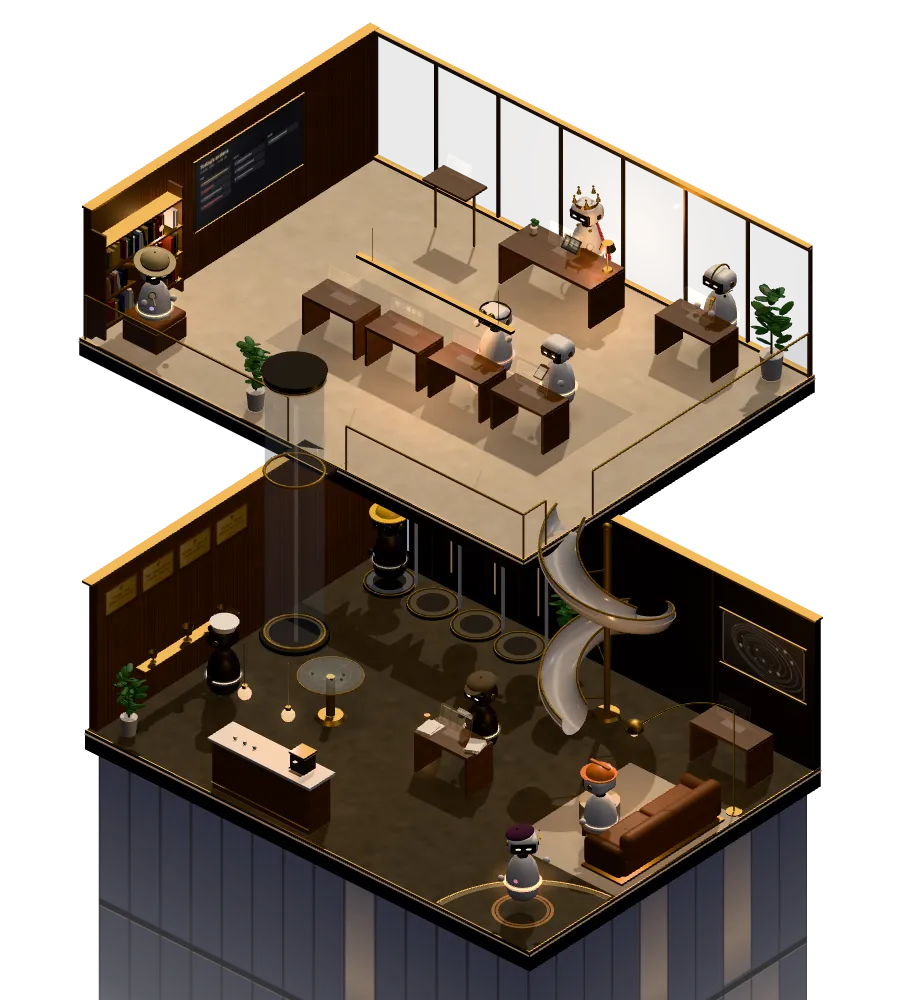
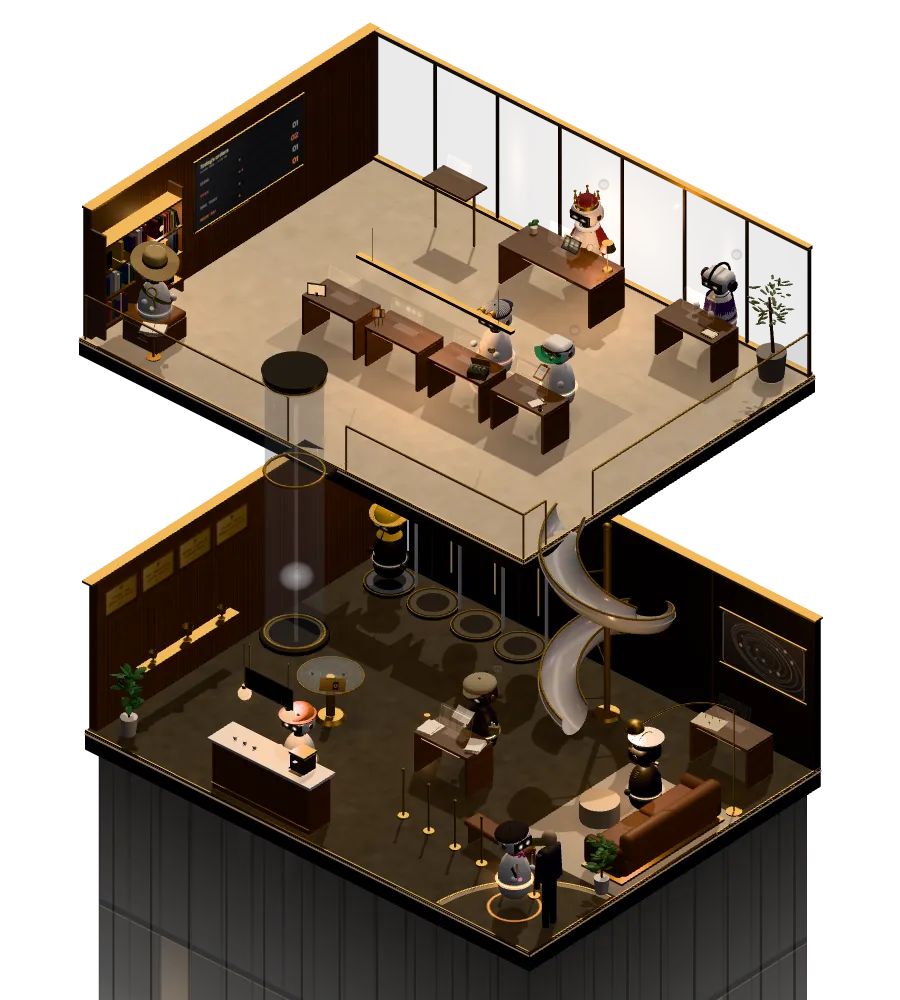
Hub v27 S6: views 2-9 (blueprint, security cam, through the window, tilt, tour, director with 400 ms cuts, robot eyes + first-person rides), The Call face-cam into #pip, Storm Watch's morning (fogged note, days-since-hail flip counter, rim notches, real-direction storm cell), hail cue moment, split-
Tested: 1512x982 all views + storm/flap fixtures (hand-stepped), 420 phone, ES, reduced motion; gate PASS (HEAD page + these files), release_checks --fast PASS.

Claude-Session: https://claude.ai/code/session_01CqR6V6VHe8sf2mjYY5dJCv

diff --git a/pages/hub/scene.js b/pages/hub/scene.js
@@ -33,7 +33,7 @@ renderer.setClearColor(0x000000, 0);
 // Nocturne (ART 6.2): neutral tone mapping at 1.0 (night 1.05); window.__hubTM = 'agx' is the A/B switch for review shots
 renderer.toneMapping = window.__hubTM === 'agx' ? THREE.AgXToneMapping : THREE.NeutralToneMapping; renderer.toneMappingExposure = 1.0;
 renderer.shadowMap.enabled = true; renderer.shadowMap.type = PHONE ? THREE.PCFShadowMap : THREE.PCFSoftShadowMap;
-renderer.shadowMap.autoUpdate = !PHONE;          // phones: robots use blob shadows, the static map is redrawn only when the sun moves
+renderer.shadowMap.autoUpdate = false;           // the shadow pass is redrawn at most 15 times a second (desktop) or when the sun moves (phones: blob shadows)
 let DPR = Math.min(window.devicePixelRatio || 1, PHONE ? 1.75 : 2);
 renderer.setPixelRatio(DPR);
 
@@ -151,6 +151,7 @@ const FONT_H = '"Bricolage Grotesque", Geist, system-ui, sans-serif', FONT = 'Ge
 const TONE = {orange:'#f1c48a', white:'rgba(241,242,244,.6)', green:'#9fbfa6', red:'#e0685c', need:'#f5883a'};
 function fitText(g, s, max, font, size, min = 14){ let z = size; g.font = font.replace('#', z); while (z > min && g.measureText(s).width > max){ z -= 2; g.font = font.replace('#', z); } return s; }
 /* the glass board (ART 6.6): the real counts, DOING / STUCK / DONE TODAY as ivory rows at 60%; only NEEDS YOU is ember */
+const boardFlip = {t:1, a:0};
 const BL = {en:['DOING','STUCK','DONE TODAY','NEEDS YOU'], es:['EN CURSO','ATASCADAS','HECHAS HOY','TE ESPERAN']};
 function boardCounts(){
   const b = HUB.boardInfo || {}, cols = Array.isArray(b.cols) ? b.cols : [], n = {doing:0, stuck:0, done:0};
@@ -170,7 +171,8 @@ const boardT = tex(1024, 520, (g,w,h) => {
   rows.forEach(([label, v, c], i) => { const y = 132 + i*92;
     g.fillStyle = 'rgba(241,242,244,.12)'; g.fillRect(44, y, w - 88, 1.5);
     g.fillStyle = c; g.font = '500 26px ' + MONO; g.textAlign = 'left'; g.fillText(label, 44, y + 58);
-    g.font = '600 60px ' + FONT_H; g.textAlign = 'right'; g.fillText(String(v).padStart(2, '0'), w - 44, y + 66); g.textAlign = 'left';
+    if (boardFlip.t < 1){ flapText(g, String(v).padStart(2, '0'), w - 44 - 108, y + 18, 54, 64, '600 50px ' + FONT_H, boardFlip.t, i*.13); g.fillStyle = c; }
+    else { g.font = '600 60px ' + FONT_H; g.textAlign = 'right'; g.fillText(String(v).padStart(2, '0'), w - 44, y + 66); } g.textAlign = 'left';
     for (let k = 0; k < Math.min(10, v); k++){ g.globalAlpha = .7; g.beginPath(); g.arc(420 + k*26, y + 49, 7, 0, Math.PI*2); g.fill(); } g.globalAlpha = 1; });
 });
 /* the trophy wall: HUB.trophies.list, newest first, up to 12 plaques */
@@ -1115,18 +1117,41 @@ function fitRect(points, maxScale){
 /* the view registry (BUILD S1): every cam id the page may ask for; unbuilt ids render as their fallback */
 const VIEWS = {
   all:{built:true}, up:{built:true}, down:{built:true}, follow:{built:true, sel:true}, ride:{built:true, sel:true, as:'follow'},
-  blueprint:{built:false}, cctv:{built:false}, window:{built:false}, tilt:{built:false}, tour:{built:false}, director:{built:false},
-  eyes:{built:false, sel:true, fallback:'follow'}
+  blueprint:{built:true, el:1.5, az:0}, cctv:{built:true, persp:true}, window:{built:true, persp:true}, tilt:{built:true, el:.42}, tour:{built:true}, director:{built:true},
+  eyes:{built:true, sel:true, persp:true}
 };
+/* perspective views (cctv, window, eyes) render through pcam; everything else is the orthographic cutaway */
+const pcam = new THREE.PerspectiveCamera(60, 1, .05, 200);
+let rcam = cam;
+const TOUR = [['all', 5], ['up', 5], ['box', 5, [[-4.4,0,-2.2],[-2.2,2.4,1.6]], 'up'], ['box', 5, [[-2.2,0,-.2],[3,1.8,1.6]], 'up'], ['down', 5], ['box', 5, [[.8,0,1.4],[4.6,1.8,3.4]], 'down'], ['box', 5, [[-3.2,0,-.8],[-.6,1.8,2.2]], 'down']];
+const tour = {i:0, t:0}, director = {mode:'all', id:null, t:0, hold:0, seen:{}};
+const cctv = {i:0, t:0};
+function boxPts(b, f){ const F = FL[f], out = []; for (const x of [b[0][0], b[1][0]]) for (const y of [b[0][1], b[1][1]]) for (const z of [b[0][2], b[1][2]]) out.push(new THREE.Vector3(x + F.ox, y + F.oy, z + F.oz)); return out; }
+/* Director (8): cuts on real moments with a 400 ms settle: a finish -> that robot, a new question -> your spot, a ride -> its eyes */
+function directorPick(dt){
+  const d = director; d.t += dt; d.hold -= dt;
+  for (const a of HUB.agents || []){ const sim = sims[a.id]; if (!sim || sim.hidden) continue; const prev = d.seen[a.id]; d.seen[a.id] = a.st + '|' + !!sim.ride;
+    if (prev === undefined || prev === d.seen[a.id]) continue;
+    if (sim.ride && d.hold < 2){ d.mode = 'eyes'; d.id = a.id; d.hold = sim.ride.kind === 'slide' ? 2.6 : 1.4; }
+    else if (a.st === 'done'){ d.mode = 'follow'; d.id = a.id; d.hold = 5; }
+    else if (a.st === 'waiting'){ d.mode = 'spot'; d.id = a.id; d.hold = 6; } }
+  if (d.hold <= 0){ d.mode = 'all'; d.id = null; }
+  if ((d.mode === 'follow' || d.mode === 'eyes') && (!sims[d.id] || sims[d.id].hidden)) d.mode = 'all';
+  return d;
+}
 const builtViews = () => Object.keys(VIEWS).filter(k => VIEWS[k].built && k !== 'ride');
 function camMode(){
   let m = HUB.cam, v = VIEWS[m];
+  if (m === 'eyes' && RM.matches) m = 'follow', v = VIEWS.follow;          // reduced motion: no first-person ride
   if (!v) m = 'all'; else if (!v.built) m = v.fallback || 'all'; else if (v.as) m = v.as;
   if (VIEWS[m].sel){ const id = HUB.selected, sim = id && sims[id]; if (!sim || sim.hidden) return 'all'; }
   return m;
 }
-function wantRect(mode){
-  if (mode === 'follow'){ const sim = sims[HUB.selected]; const c = new THREE.Vector3(sim.x, sim.y + .7, sim.z);
+function wantRect(mode, id, extra){
+  if (mode === 'spot') return fitRect(boxPts([[.6,0,1.2],[4.6,1.9,3.4]], 'down'), 140);
+  if (mode === 'box') return fitRect(boxPts(extra[0], extra[1]), 160);
+  if (mode === 'tilt'){ const f = (sims[HUB.selected] && sims[HUB.selected].floor) || 'up'; return fitRect(boxPts([[-3.2,0,-2.4],[3.2,1.4,2.4]], f), 150); }
+  if (mode === 'follow'){ const sim = sims[id || HUB.selected]; const c = new THREE.Vector3(sim.x, sim.y + .7, sim.z);
     const pts = [c.clone().add(new THREE.Vector3(-2.6, -.7, -2.6)), c.clone().add(new THREE.Vector3(2.6, -.7, 2.6)), c.clone().add(new THREE.Vector3(-2.6, 1.3, 2.6)), c.clone().add(new THREE.Vector3(2.6, 1.3, -2.6))];
     return fitRect(pts, 120); }
   return fitRect(BOXES[mode] || BOXES.all);
@@ -1138,12 +1163,25 @@ const HZ = {down:new THREE.Vector3(2.5, 1.25, -FZ), up:new THREE.Vector3(FL.up.o
 const tw = {key:null, from:null, t:1};
 const RK = ['l','r','t','b'];
 function updateCamera(dt, snap){
-  const mode = camMode(), want = wantRect(mode), A = area();
-  const key = mode + '|' + (mode === 'follow' ? HUB.selected : '') + '|' + Math.round(A.x0) + ',' + Math.round(A.y0) + ',' + Math.round(A.x1) + ',' + Math.round(A.y1);
+  const top = camMode(), A = area();
+  let mode = top, id = HUB.selected, extra = null;
+  if (top === 'director' && !RM.matches){ const d = directorPick(dt); mode = d.mode; id = d.id; }
+  else if (top === 'director') mode = 'all';
+  if (top === 'tour'){ const T = TOUR[tour.i % TOUR.length]; if (!RM.matches){ tour.t += dt; if (tour.t > T[1]){ tour.t = 0; tour.i++; } } const T2 = TOUR[tour.i % TOUR.length]; mode = T2[0]; extra = T2.slice(2); }
+  view.sub = mode; view.subId = id;
+  const V_ = VIEWS[mode] || {};
+  if (V_.persp){ rcam = pcam; view.mode = mode; perspCam(mode, id, dt); gUp.position.y = FL.up.oy; LIFT = 0; view.lift = 0; gUp.visible = true; tw.key = null; horizonFrom(pcam, dt); return; }
+  rcam = cam;
+  // orientation: the view's own elevation / azimuth (blueprint looks straight down, tilt sits low), glided with the rect
+  const elT = V_.el ?? .6, azT = V_.az != null ? V_.az : view.azLive;
+  const key = mode + '|' + (mode === 'follow' ? id : '') + '|' + (top === 'tour' ? tour.i : '') + '|' + Math.round(A.x0) + ',' + Math.round(A.y0) + ',' + Math.round(A.x1) + ',' + Math.round(A.y1);
   const cut = !view.rect || snap || RM.matches || CAPTURE;
-  if (key !== tw.key){ if (!cut){ tw.from = Object.assign({}, view.rect); tw.t = 0; } else tw.t = 1; tw.key = key; }
+  if (key !== tw.key){ if (!cut){ tw.from = Object.assign({}, view.rect, {el:view.el, az:view.azNow}); tw.t = 0; tw.dur = top === 'director' ? .4 : .75; } else tw.t = 1; tw.key = key; }
+  if (cut || tw.t >= 1){ view.el = elT; view.azNow = azT; } else { const e = ease(Math.min(1, tw.t + dt/tw.dur)); view.el = tw.from.el + (elT - tw.from.el)*e; let da = azT - tw.from.az; da = Math.atan2(Math.sin(da), Math.cos(da)); view.azNow = tw.from.az + da*e; }
+  aim(view.azNow);
+  const want = wantRect(mode, id, extra);
   if (cut){ view.rect = Object.assign({}, want); tw.t = 1; }
-  else if (tw.t < 1){ tw.t = Math.min(1, tw.t + dt/.75); const e = ease(tw.t); for (const k of RK) view.rect[k] = tw.from[k] + (want[k] - tw.from[k])*e; }
+  else if (tw.t < 1){ tw.t = Math.min(1, tw.t + dt/(tw.dur || .75)); const e = ease(tw.t); for (const k of RK) view.rect[k] = tw.from[k] + (want[k] - tw.from[k])*e; }
   else if (mode === 'follow'){ const k = 1 - Math.exp(-dt*5); for (const q of RK) view.rect[q] += (want[q] - view.rect[q])*k; }
   else view.rect = Object.assign({}, want);
   view.mode = mode; applyRect(view.rect);
@@ -1151,11 +1189,33 @@ function updateCamera(dt, snap){
   const lw = mode === 'down' ? 1 : 0; view.lift = view.lift == null || snap || RM.matches || CAPTURE ? lw : view.lift + (lw - view.lift)*Math.min(1, dt*4.5);
   if (Math.abs(view.lift - lw) < .002) view.lift = lw;
   LIFT = view.lift*view.lift*(3 - 2*view.lift)*8; gUp.position.y = FL.up.oy + LIFT; gUp.visible = view.lift < .85;
-  if (skyEl){ const f = mode === 'follow' ? sims[HUB.selected].floor : mode; const hz = VC.copy(HZ[f] || HZ.all).project(cam); const pct = (1 - hz.y)/2*100;
-    view.horizon = view.horizon == null || RM.matches ? pct : view.horizon + (pct - view.horizon)*Math.min(1, dt*3.2);
-    const s = Math.max(8, Math.min(92, view.horizon)).toFixed(1) + '%'; if (s !== view.hs){ view.hs = s; skyEl.style.setProperty('--horizon', s); } }
+  if (skyEl){ const f = mode === 'follow' ? (sims[id] ? sims[id].floor : 'all') : mode === 'box' ? extra[1] : mode; const hz = VC.copy(HZ[f] || HZ.all).project(cam); setHorizon((1 - hz.y)/2*100, dt); }
 }
-function resize(){ W = stage.clientWidth || 1; H = stage.clientHeight || 1; renderer.setSize(W, H, false); aim(AZ0 + view.drag); updateCamera(0, true); }
+function setHorizon(pct, dt){ if (!skyEl) return; view.horizon = view.horizon == null || RM.matches ? pct : view.horizon + (pct - view.horizon)*Math.min(1, dt*3.2);
+  const s = Math.max(8, Math.min(92, view.horizon)).toFixed(1) + '%'; if (s !== view.hs){ view.hs = s; skyEl.style.setProperty('--horizon', s); } }
+function horizonFrom(c, dt){ const d = new THREE.Vector3(); c.getWorldDirection(d); d.y = 0; d.normalize().multiplyScalar(150).add(c.position); d.y = 0; d.project(c); setHorizon((1 - d.y)/2*100, dt); }
+/* the perspective views */
+const HEADV = new THREE.Vector3(), FWD = new THREE.Vector3();
+function perspCam(mode, id, dt){
+  pcam.aspect = W/H;
+  if (mode === 'cctv'){               // Security cam: Cam 1 up / Cam 2 down, a new camera every 8 s; the page adds the timestamp + grain
+    if (!RM.matches){ cctv.t += dt; if (cctv.t > 8){ cctv.t = 0; cctv.i++; } }
+    const up = cctv.i % 2 === 0, F = FL[up ? 'up' : 'down'];
+    pcam.fov = 72; pcam.position.set(F.ox + FX - .25, F.oy + (up ? 2.25 : 2.55), F.oz - FZ + .3); pcam.lookAt(F.ox - .6, F.oy + .2, F.oz + 1.2);
+  } else if (mode === 'window'){      // Through the window: outside the upper glass, looking in at the Code lab
+    const F = FL.up, sway = RM.matches ? 0 : Math.sin(performance.now()/1000*.12)*.6;
+    pcam.fov = 42; pcam.position.set(F.ox + .4 + sway, F.oy + 1.45, F.oz - FZ - 3.4); pcam.lookAt(F.ox + .2, F.oy + .85, F.oz + .9);
+  } else {                            // Robot eyes (key 9): from the visor, fov 70; the slide / tube ride in first person at fov 110
+    const sim = sims[id], R = robots[id]; if (!sim || !R) return;
+    const riding = !!sim.ride; pcam.fov = riding ? 110 : 70;
+    HEADV.set(0, R.hov.position.y*1 + .82*1.24, 0); R.root.localToWorld(HEADV);
+    const yaw = sim.yawDraw + R.head.rotation.y, pit = R.head.rotation.x*.8 + (riding ? .15 : .12);
+    FWD.set(Math.sin(yaw)*Math.cos(pit), -Math.sin(pit), Math.cos(yaw)*Math.cos(pit));
+    pcam.position.copy(HEADV).addScaledVector(FWD, .24); pcam.lookAt(VC.copy(pcam.position).add(FWD));
+  }
+  pcam.updateProjectionMatrix(); pcam.updateMatrixWorld();
+}
+function resize(){ W = stage.clientWidth || 1; H = stage.clientHeight || 1; renderer.setSize(W, H, false); view.azLive = AZ0 + view.drag; if (view.azNow == null) view.azNow = view.azLive; aim(view.azNow); updateCamera(0, true); }
 // drag to turn the building a little (a tap still selects: the page ignores taps right after a drag)
 let dragStart = null; const SC = {dragged:false};
 const NODRAG = '.bub,button,a,input,textarea,select,[data-nodrag]';
@@ -1297,6 +1357,7 @@ function animRobot(a, sim, R, t, dt){
   if (S === 'idle' && HUB.watching && !habit) hy *= .35;
   if (qStage === 1 && !rm && ((t + ph) % 9) < 1.4) hy = .9;                           // a glance up the stairs
   if (qStage === 2){ hp = .26; } else if (qStage === 3){ hp = .35; }
+  if (sim.lookWin > 0){ sim.lookWin -= dt; const aw = Math.atan2(Math.sin(Math.PI - sim.yawDraw), Math.cos(Math.PI - sim.yawDraw)); hy = Math.max(-1.3, Math.min(1.3, aw)); hp = -.12; look.set(Math.sign(aw)*.6, .2, 0); }
   const hkx = Math.min(1, dt*4); R.head.rotation.x = lerp(R.head.rotation.x, hp, hkx); R.head.rotation.y = lerp(R.head.rotation.y, hy, Math.min(1, dt*(sim.moving ? 5 : 3))); R.head.rotation.z = lerp(R.head.rotation.z, hr, hkx);
   // eyes (hub/eyes.js)
   const blink = sim.blinkT > 0 && !rm && pose !== 'sleep' ? .08 : 1;
@@ -1374,9 +1435,10 @@ function animRobot(a, sim, R, t, dt){
   R.ring2.scale.setScalar(pose === 'wait' ? 1.05 : 1.15);
   R.ring.visible = R.ring.material.opacity > .01; R.ring2.visible = R.ring2.material.opacity > .01;
   // overlay anchor: top of the head + the floor under the robot
-  V.set(sim.x, sim.y + up + hh + 1.2 + R.hat, sim.z).project(cam); const ax = (V.x+1)/2*W, ay = (1-V.y)/2*H;
-  V.set(sim.x, sim.y + up, sim.z).project(cam); const fx = (V.x+1)/2*W, fy = (1-V.y)/2*H;
-  const on = !(up > .3) && ax > -20 && ax < W + 20 && ay > -40 && fy < H + 20;
+  V.set(sim.x, sim.y + up + hh + 1.2 + R.hat, sim.z).project(rcam); const ax = (V.x+1)/2*W, ay = (1-V.y)/2*H, behind = V.z > 1;
+  V.set(sim.x, sim.y + up, sim.z).project(rcam); const fx = (V.x+1)/2*W, fy = (1-V.y)/2*H;
+  const persFloor = rcam === pcam ? (view.sub === 'cctv' ? (cctv.i % 2 === 0 ? 'up' : 'down') : view.sub === 'window' ? 'up' : null) : null;
+  const on = !(up > .3) && !behind && !(persFloor && sim.floor !== persFloor) && !(rcam === pcam && view.sub === 'eyes' && view.subId === a.id) && ax > -20 && ax < W + 20 && ay > -40 && fy < H + 20;
   const an = anchors[a.id] || (anchors[a.id] = {});
   an.x = ax; an.y = ay; an.fx = fx; an.fy = fy; an.pose = sim.bow != null ? 'bow' : sim.poke != null ? 'poke' : pose === 'wait' && sim.slot > 0 ? 'queue' : R.zone > 1 ? 'zone' : pose; an.moving = !!sim.moving; an.visible = on; an.floor = sim.floor;
   // floor reflection, desk status bar, after-hours lamp
@@ -1408,7 +1470,9 @@ function lightFromSky(dt){
   sun.intensity = L('ki')*(1 - storm*.75) + flash*2.2;
   const el = Math.max(8, L('el'))*Math.PI/180, az = -2.6;                    // from the back-left, through the back glass
   sun.position.set(-1.5 + Math.sin(az)*Math.cos(el)*24, 1 + Math.sin(el)*24, -2 + Math.cos(az)*Math.cos(el)*24); sun.target.position.set(-1.5, 1, -2);
-  if (!renderer.shadowMap.autoUpdate){ shadowSun.t += dt; if (shadowSun.el == null || Math.abs(shadowSun.el - el) > .01 || shadowSun.t > 6){ shadowSun.el = el; shadowSun.t = 0; renderer.shadowMap.needsUpdate = true; } }
+  shadowSun.t += dt; shadowSun.q = (shadowSun.q || 0) + dt;
+  if (shadowSun.el == null || Math.abs(shadowSun.el - el) > .01 || shadowSun.t > 6){ shadowSun.el = el; shadowSun.t = 0; renderer.shadowMap.needsUpdate = true; }
+  else if (!PHONE && shadowSun.q > 1/15){ shadowSun.q = 0; renderer.shadowMap.needsUpdate = true; }
   hemi.color.copy(A.hsc).lerp(B.hsc, k); hemi.groundColor.copy(A.hgc).lerp(B.hgc, k);
   const fl = HUB.flap; if (fl && isFinite(fl.blockDays)){ const d = +fl.blockDays; if (d >= 1) hemi.color.lerp(MOOD_W, Math.min(.08, d*.012)); else hemi.color.lerp(MOOD_C, .05); }
   hemi.intensity = L('hi')*(1 - storm*.3) + flash*1.2;
@@ -1489,8 +1553,8 @@ function stepAwareness(agents, dt){
       if (lap){ const sm = sims[lap.id], free = POOL.lounge.find(p => p.f === 'down' && !claims.has(p)); if (free){ release(sm); claims.set(free, sm.id); sm.queue = [{spot:null, pose:'cheer', dur:1.2}]; go(sm, free); } } } }
   fx_.finish = fin;
   // your spot + the tube base, in stage px (for the page's overlays and the mind)
-  V1.set(FIG.x, 1.2, FIG.z).project(cam); points.spot.x = (V1.x + 1)/2*W; points.spot.y = (1 - V1.y)/2*H; points.spot.visible = V1.z < 1 && points.spot.x > -20 && points.spot.x < W + 20;
-  V1.set(TUBE.x, .1, TUBE.z).project(cam); points.tube.x = (V1.x + 1)/2*W; points.tube.y = (1 - V1.y)/2*H; points.tube.visible = points.tube.x > -20 && points.tube.x < W + 20;
+  V1.set(FIG.x, 1.2, FIG.z).project(rcam); points.spot.x = (V1.x + 1)/2*W; points.spot.y = (1 - V1.y)/2*H; points.spot.visible = V1.z < 1 && points.spot.x > -20 && points.spot.x < W + 20;
+  V1.set(TUBE.x, .1, TUBE.z).project(rcam); points.tube.x = (V1.x + 1)/2*W; points.tube.y = (1 - V1.y)/2*H; points.tube.visible = points.tube.x > -20 && points.tube.x < W + 20;
 }
 function runCues(){
   const q = HUB.cues; if (!Array.isArray(q)) return false; let any = false;
@@ -1528,8 +1592,7 @@ function frame(t, dt){
   const now = performance.now();
   const drift = RM.matches || CAPTURE ? 0 : Math.sin(t*.05)*.04;
   if (!dragStart && view.lastDrag && now - view.lastDrag > 5000) view.drag *= Math.pow(.2, dt);
-  const az = AZ0 + drift + view.drag;
-  if (view.azNow == null || Math.abs(az - view.azNow) > 1e-5){ view.azNow = az; aim(az); }
+  view.azLive = AZ0 + drift + view.drag;
   updateCamera(dt, false);
   if (readTheme()) redraw(boardT);
   // The Call (ART 8.4): the pool rises over the first in line (HUB.needs.ids[0], else the first waiting robot) in 1.2 s
@@ -1543,11 +1606,14 @@ function frame(t, dt){
   const pk = ease(call.k)*(cs && !(cs.floor === 'up' && !gUp.visible) ? 1 : 0);
   pool.intensity = 18*2.5*pk;          // ART's 18, scaled for r169's physical units
   poolDecal.visible = pk > .01; if (cs){ poolDecal.position.set(cs.x, cs.y + (cs.floor === 'up' && !cs.ride ? LIFT : 0) + .012, cs.z); poolDecal.material.opacity = .22*pk; }
+  const bolt = stepStorm(dt);
   const lamps = lightFromSky(dt);
+  if (bolt){ sun.intensity += 3*bolt; hemi.intensity += 1.2*bolt; }
   // board + trophies redraw when their data or the language changes
   const lang = HUB.lang; const bv = HUB.boardInfo && HUB.boardInfo.v, tv = HUB.trophies && HUB.trophies.v;
-  const bsig = bv + '|' + JSON.stringify(boardCounts());
-  if (bsig !== seen.board || lang !== seen.lang){ seen.board = bsig; redraw(boardT); }
+  const bsig = bv + '|' + JSON.stringify(boardCounts()), run = HUB.boardInfo ? tx(HUB.boardInfo.when) : '';
+  if (bsig !== seen.board || lang !== seen.lang){ if (seen.board != null && run !== seen.run && !RM.matches) boardFlip.t = 0; seen.run = run; seen.board = bsig; redraw(boardT); }
+  if (boardFlip.t < 1){ boardFlip.t = Math.min(1, boardFlip.t + dt/1.4); if ((boardFlip.a += dt) > .07 || boardFlip.t >= 1){ boardFlip.a = 0; redraw(boardT); } }
   if (tv !== seen.trophies || lang !== seen.lang){ seen.trophies = tv; redraw(trophyT);
     const top = HUB.trophies && HUB.trophies.list && HUB.trophies.list[0] && HUB.trophies.list[0].id;
     if (seen.trophyTop !== undefined && top && top !== seen.trophyTop && !RM.matches) sweep.userData.t = 0; seen.trophyTop = top || null; }
@@ -1605,12 +1671,99 @@ function frame(t, dt){
       arr[k*3] += (v[0] + Math.sin(b.t*5 + v[3])*.12)*dt; arr[k*3+1] += v[1]*dt; arr[k*3+2] += (v[2] + Math.cos(b.t*4 + v[3])*.12)*dt; }
     b.p.geometry.attributes.position.needsUpdate = true; b.p.material.opacity = Math.max(0, Math.min(1, (b.life - b.t)/(b.life*.35)));
     if (b.t > b.life){ scene.remove(b.p); b.p.geometry.dispose(); b.p.material.dispose(); bursts.splice(i,1); } }
-  renderer.render(scene, cam);
+  const selfR = rcam === pcam && view.sub === 'eyes' && robots[view.subId]; if (selfR) selfR.root.visible = false;   // your own head stays out of your eyes
+  renderer.render(scene, rcam);
+  if (selfR) selfR.root.visible = true;
+  renderPip();
   // keep phones smooth: drop resolution if frames run long
   if (!cap && !CAPTURE){ perf.acc += Math.min(.1, rawDt || 0); perf.n++; if (perf.acc > 2){ const avg = perf.acc/perf.n;
     if (avg > .026 && DPR > 1){ DPR = Math.max(1, DPR - .25); pw.dprSet = DPR; renderer.setPixelRatio(DPR); resize();
       if (!lowfx){ lowfx = true; try { HUB.onLowFx && HUB.onLowFx(true); } catch(e){} halos.forEach((h, i) => { if (i % 2) h.visible = false; }); lampRefl.forEach(r => r.visible = false); } }
     perf.acc = 0; perf.n = 0; } }
+}
+/* ================= Storm Watch's morning (FUN 7), the hail moment, the flap boards (FUN 8) ================= */
+const GLYPH = 'ABCDEFGHIJKLMNOPQRSTUVWXYZ0123456789';
+function flapText(g, text, x, y, cw, ch, font, flip, seed){        // split-flap cells: ivory glyphs on dark leaves; unsettled cells show a random glyph
+  g.font = font; g.textAlign = 'center'; g.textBaseline = 'middle';
+  for (let i=0;i<text.length;i++){ const c = text[i], cx = x + i*cw;
+    if (c !== ' '){ g.fillStyle = '#16161a'; g.fillRect(cx + 1, y, cw - 2, ch); g.fillStyle = 'rgba(0,0,0,.6)'; g.fillRect(cx + 1, y + ch/2 - .5, cw - 2, 1); }
+    const settled = flip >= 1 || flip > .15 + (i*.37 + seed) % .6; const ch_ = settled ? c : GLYPH[Math.floor(Math.random()*GLYPH.length)];
+    g.fillStyle = '#f1f2f4'; if (c !== ' ') g.fillText(ch_, cx + cw/2, y + ch/2 + 1); }
+  g.textBaseline = 'alphabetic'; }
+const storm = {note:null, noteK:1, noteKey:'', counter:null, cnt:'', flipT:1, cloud:null, notches:[], hail:null};
+{
+  P = gDown;
+  storm.counterT = tex(256, 150, (g, w, h) => { g.clearRect(0,0,w,h); const gr = g.createLinearGradient(0,0,0,h); gr.addColorStop(0,'#d9bd82'); gr.addColorStop(1,'#8a6a3a');
+    g.fillStyle = gr; g.beginPath(); g.roundRect(0,0,w,h,12); g.fill(); g.fillStyle = '#2a1c0c'; g.font = '600 17px ' + MONO; g.textAlign = 'center';
+    g.fillText(HUB.lang === 'es' ? 'DÍAS SIN GRANIZO' : 'DAYS SINCE HAIL', w/2, 26);
+    flapText(g, storm.cnt.padStart(2, ' '), 68, 40, 60, 92, '600 64px ' + FONT_H, storm.flipT, .1); });
+  storm.counter = dyn(new THREE.Mesh(new THREE.PlaneGeometry(.3, .176), std({map:storm.counterT, transparent:true, roughness:.4, metalness:.3})));
+  storm.counter.position.set(-1.62, .98, .98); storm.counter.scale.setScalar(1.35); storm.counter.rotation.set(-.15, Math.PI/4, 0); storm.counter.renderOrder = 8; storm.counter.visible = false; P.add(storm.counter);
+  for (let i=0;i<12;i++){ const an = -Math.PI/2 + i*.2; const m = new THREE.Mesh(new THREE.BoxGeometry(.03, .02, .03), MAT.bronze); m.position.set(-2.0 + Math.cos(an)*.52, .79, .6 + Math.sin(an)*.52); m.rotation.y = -an; m.visible = false; P.add(dyn(m)); storm.notches.push(m); }
+  storm.noteT = tex(256, 256, (g, w, h) => { g.clearRect(0,0,w,h); const k = storm.noteK, n = storm.noteData || {};
+    const fog = g.createRadialGradient(128,128,10,128,128,120); fog.addColorStop(0,'rgba(235,240,245,.55)'); fog.addColorStop(.7,'rgba(235,240,245,.3)'); fog.addColorStop(1,'rgba(235,240,245,0)'); g.fillStyle = fog; g.fillRect(0,0,w,h);
+    g.globalCompositeOperation = 'destination-out'; g.strokeStyle = 'rgba(0,0,0,.95)'; g.fillStyle = 'rgba(0,0,0,.95)'; g.lineWidth = 9; g.lineCap = 'round';   // a finger wipes the fog
+    g.beginPath(); g.arc(128, 104, 38, -Math.PI/2, -Math.PI/2 + Math.PI*2*Math.min(1, k/.45)); g.stroke();
+    if (!n.hail && k > .45){ g.beginPath(); g.moveTo(92, 142); g.lineTo(92 + 72*Math.min(1, (k - .45)/.25), 142 - 76*Math.min(1, (k - .45)/.25)); g.stroke(); }
+    if (k > .7){ g.globalAlpha = Math.min(1, (k - .7)/.3); g.font = '600 40px ' + MONO; g.textAlign = 'center'; g.fillText(n.label || '', 128, 196); g.globalAlpha = 1; } g.globalCompositeOperation = 'source-over'; });
+  storm.note = new THREE.Mesh(new THREE.PlaneGeometry(.62, .62), new THREE.MeshBasicMaterial({map:storm.noteT, transparent:true, depthWrite:false, toneMapped:false}));
+  storm.note.position.set(TUBE.x + .34, 1.45, TUBE.z + .34); storm.note.rotation.y = Math.PI/4; storm.note.renderOrder = 7; storm.note.visible = false; scene.add(storm.note);
+  storm.cloudT = tex(256, 256, (g, w, h) => { g.clearRect(0,0,w,h); const blob = (x, y, r, a) => { const gr = g.createRadialGradient(x,y,0,x,y,r); gr.addColorStop(0,`rgba(58,62,74,${a})`); gr.addColorStop(1,'rgba(58,62,74,0)'); g.fillStyle = gr; g.fillRect(x-r,y-r,r*2,r*2); };
+    blob(128, 70, 80, .85); blob(70, 78, 50, .7); blob(186, 78, 50, .7); blob(128, 150, 60, .8); for (let i=0;i<12;i++) blob(96 + (i*23)%70, 190 + (i%3)*14, 18, .35); });
+  storm.cloud = new THREE.Sprite(new THREE.SpriteMaterial({map:storm.cloudT, transparent:true, opacity:0, depthWrite:false, depthTest:false, toneMapped:false})); storm.cloud.renderOrder = -3; storm.cloud.visible = false; scene.add(storm.cloud);
+  storm.flapT = tex(512, 200, (g, w, h) => { g.fillStyle = '#0e0e11'; g.fillRect(0,0,w,h); g.strokeStyle = '#c9a45c'; g.lineWidth = 3; g.strokeRect(3,3,w-6,h-6);
+    const f = HUB.flap || {}, es = storm.flapLang === 'es';
+    const rows = es ? [['DÍAS SIN BLOQUEOS', f.blockDays], ['ENTREGADO', f.shipped], ['TE ESPERAN', f.waiting]] : [['DAYS WITHOUT A BLOCK', f.blockDays], ['SHIPPED THIS WEEK', f.shipped], ['WAITING ON YOU', f.waiting]];
+    rows.forEach(([l, v], i) => { const y = 16 + i*60; g.fillStyle = 'rgba(241,242,244,.62)'; g.font = '500 22px ' + MONO; g.textAlign = 'left'; g.textBaseline = 'middle'; g.fillText(l, 22, y + 24);
+      flapText(g, String(v == null ? '--' : Math.min(99, v | 0)).padStart(2, '0'), w - 118, y, 46, 50, '600 36px ' + FONT_H, storm.flapFlip, i*.2);
+      if (i === 2 && v > 0){ g.fillStyle = TONE.need; g.fillRect(w - 128, y + 8, 4, 34); } }); });
+  storm.flapLang = 'en'; storm.flapFlip = 1; storm.flapAt = 0;
+  storm.flap = dyn(new THREE.Mesh(new THREE.PlaneGeometry(1.0, .39), std({map:storm.flapT, roughness:.5, metalness:.2})));
+  storm.flap.position.set(-1.1, 2.2, 3.05); storm.flap.visible = false; P.add(storm.flap);
+  storm.rods = [-.4, .4].map(dx => { const r = cyl(.006, .006, .45, MAT.brass, -1.1 + dx, 2.62, 3.05, 6); r.userData.dyn = true; r.visible = false; return r; });
+}
+const MS_DAY = 86400e3;
+function stepStorm(dt){
+  const sw = HUB.stormWatch, rm = RM.matches, swA = HUB.byId && HUB.byId['storm-watch'];
+  const cnt = sw && isFinite(sw.dryDays) ? String(Math.min(99, Math.max(0, sw.dryDays | 0))) : '';
+  storm.counter.visible = !!cnt;
+  if (cnt && cnt !== storm.cnt){ storm.flipT = rm || !storm.cnt ? 1 : 0; storm.cnt = cnt; redraw(storm.counterT); }
+  if (storm.flipT < 1){ storm.flipT = Math.min(1, storm.flipT + dt/1.1); if ((storm.f1 = (storm.f1 || 0) + dt) > .07 || storm.flipT >= 1){ storm.f1 = 0; redraw(storm.counterT); } }
+  if (storm.lang !== HUB.lang){ storm.lang = HUB.lang; if (cnt) redraw(storm.counterT); }
+  const nn = Math.min(12, swA && swA.gear ? swA.gear.count | 0 : 0); storm.notches.forEach((m, i) => m.visible = i < nn);
+  const m = fremontMin(), recent = !!(sw && sw.lastHailAt && Date.now() - Date.parse(sw.lastHailAt) < 18*3600e3);
+  const show = !!sw && m >= 414 && m < 1320;
+  const label = recent && sw.inches ? (+sw.inches).toFixed(2).replace(/0$/, '') + '"' : '6:54', key = show + '|' + label;
+  if (key !== storm.noteKey){ storm.noteKey = key; storm.noteData = {hail:recent, label}; storm.noteK = rm ? 1 : 0; redraw(storm.noteT); }
+  storm.note.visible = show;
+  if (storm.noteK < 1){ storm.noteK = Math.min(1, storm.noteK + dt/1.5); if ((storm.f2 = (storm.f2 || 0) + dt) > .1 || storm.noteK >= 1){ storm.f2 = 0; redraw(storm.noteT); } }
+  const cloudOn = !!(sw && sw.lastHailAt && Date.now() - Date.parse(sw.lastHailAt) < MS_DAY && isFinite(sw.dir)) || !!storm.hail;
+  if (cloudOn){ const src = storm.hail || sw, dir = (+src.dir || 0)*Math.PI/180, inch = Math.max(.75, +src.inches || 1), hgt = 3 + Math.min(2.5, inch)*2.6;
+    storm.cloud.position.set(-1 + Math.sin(dir)*13, 2 + hgt*.55, -1 - Math.cos(dir)*13); storm.cloud.scale.set(hgt*1.25, hgt, 1); }
+  storm.cloud.visible = cloudOn || storm.cloud.material.opacity > .02; storm.cloud.material.opacity = lerp(storm.cloud.material.opacity, cloudOn ? .85 : 0, rm ? 1 : Math.min(1, dt*.8));
+  const fl = HUB.flap; storm.flap.visible = !!fl; storm.rods.forEach(r => r.visible = !!fl);
+  if (fl){ const sig = JSON.stringify([fl.blockDays, fl.shipped, fl.waiting]); storm.flapAt += dt;
+    if (sig !== storm.flapSig || storm.flapAt > 20){ const first = storm.flapSig == null; if (storm.flapAt > 20) storm.flapLang = storm.flapLang === 'en' ? 'es' : 'en'; storm.flapAt = 0; storm.flapSig = sig; storm.flapFlip = rm || first ? 1 : 0; redraw(storm.flapT); }
+    if (storm.flapFlip < 1){ storm.flapFlip = Math.min(1, storm.flapFlip + dt/1.2); if ((storm.f3 = (storm.f3 || 0) + dt) > .07 || storm.flapFlip >= 1){ storm.f3 = 0; redraw(storm.flapT); } } }
+  const hl = storm.hail; if (hl){ hl.t += dt; if (hl.t > 14){ storm.hail = null; const s2 = sims['storm-watch']; if (s2 && swA) applyState(s2, swA, false); } }
+  return hl && !rm ? ([[.3,.45],[.6,.7],[2.1,2.25]].some(([a, b]) => hl.t > a && hl.t < b) ? 1 : 0) : 0;
+}
+CUE_LATE.hail = (c) => {
+  storm.hail = {t:0, inches:+c.inches || 1, dir:+c.dir || 0};
+  if (RM.matches) return;
+  for (const s2 of Object.values(sims)) if (!s2.hidden) s2.lookWin = 5;
+  const sw = sims['storm-watch']; if (sw && !sw.hidden && !sw.ride){ sw.lookWin = 0; sw.queue = [{spot:'front', pose:'wait'}]; }
+};
+/* The Call face-cam (FUN 4): while HUB.pip is set, the asker's face is scissor-rendered into the page's #pip box */
+const fcam = new THREE.PerspectiveCamera(30, 1, .05, 30);
+function renderPip(){
+  const pp = HUB.pip; if (!pp || !pp.id) return; const sim = sims[pp.id], R = robots[pp.id]; if (!sim || !R || sim.hidden) return;
+  const el = document.getElementById('pip'); if (!el) return; const r = el.getBoundingClientRect(), sr = stage.getBoundingClientRect();
+  const w = Math.round(r.width), h = Math.round(r.height), x = Math.round(r.left - sr.left), y = Math.round(r.top - sr.top); if (w < 8 || h < 8 || el.offsetParent === null) return;
+  HEADV.set(0, R.hov.position.y + .82*1.24, 0); R.root.localToWorld(HEADV);
+  const yaw = sim.yawDraw; fcam.aspect = w/h; fcam.position.set(HEADV.x + Math.sin(yaw)*.95, HEADV.y + .06, HEADV.z + Math.cos(yaw)*.95); fcam.lookAt(HEADV.x, HEADV.y - .02, HEADV.z); fcam.updateProjectionMatrix();
+  const yb = H - y - h; renderer.setScissorTest(true); renderer.setScissor(x, yb, w, h); renderer.setViewport(x, yb, w, h); renderer.clear(); renderer.render(scene, fcam);
+  renderer.setScissorTest(false); renderer.setViewport(0, 0, W, H);
 }
 function burstSmall(p){ burst(p.x, p.y, p.z, 10, .9); }
 
@@ -1624,11 +1777,11 @@ function settle(){ for (const a of agentsArr()){ const sim = sims[a.id]; if (!si
   for (let i = 0; i < 10 && (sim.moving || sim.queue.length); i++){ if (sim.moving){ place(sim, sim.target); if (sim.pending){ sim.pending = false; applyState(sim, a, false); } } stepQueue(sim, a); if (sim.queue[0] && sim.queue[0].dur){ sim.poseT = sim.queue[0].dur*.4; break; } } } }
 
 window.SCENE = {ready:true, anchors, frame, resize, pick, settle, get dragged(){ return SC.dragged; }, get info(){ return renderer.info.render; },
-  get views(){ return builtViews(); }, get tweening(){ return tw.t < 1; }, get busy(){ return isBusy(); }, points};
+  get views(){ return builtViews(); }, get tweening(){ return tw.t < 1; }, get busy(){ return isBusy(); }, points, get cctv(){ return cctv.i % 2 === 0 ? 1 : 2; }};
 resize();
 HUB.layout && HUB.layout();
 
 if (CAPTURE){
   // render a still for the no-WebGL fallback (transparent background; the page's CSS sky shows through)
-  setTimeout(() => { const out = document.createElement('textarea'); out.id = 'cap'; renderer.render(scene, cam); out.value = canvas.toDataURL('image/webp', .8); document.body.append(out); }, 7000);
+  setTimeout(() => { const out = document.createElement('textarea'); out.id = 'cap'; renderer.render(scene, rcam); out.value = canvas.toDataURL('image/webp', .8); document.body.append(out); }, 7000);
 }
